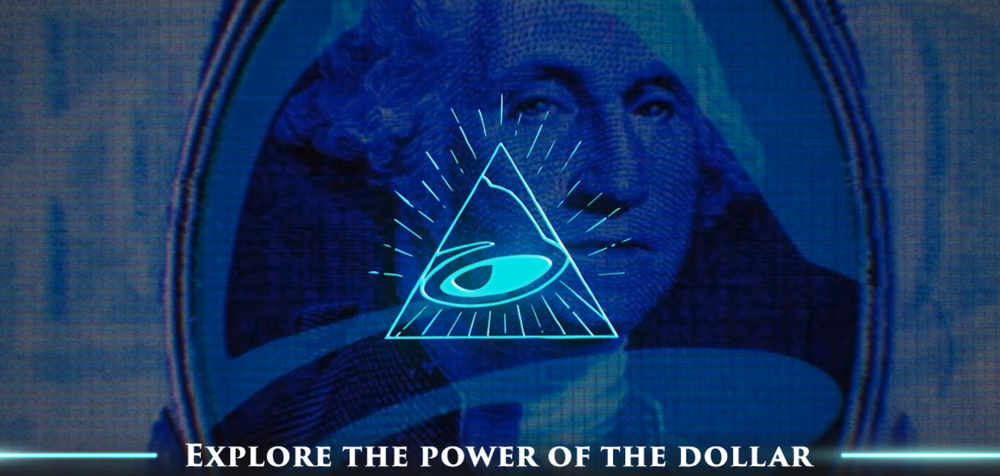
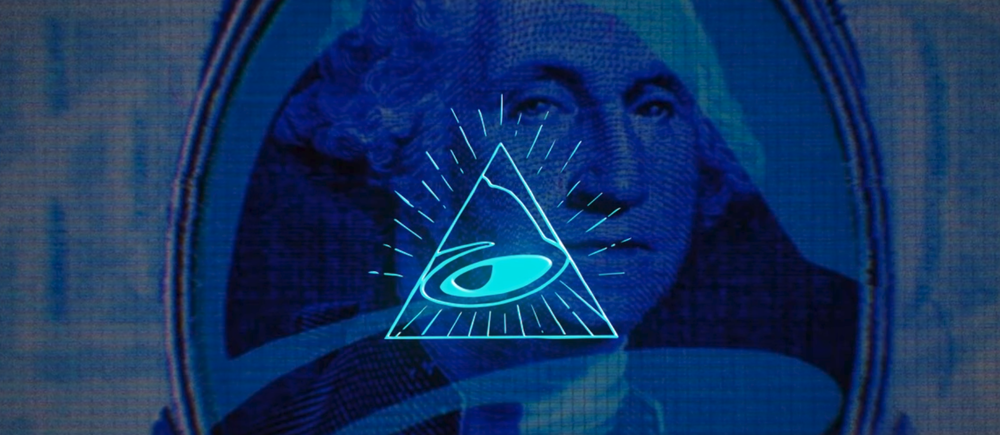
Remove text from background pic

diff --git a/index.css b/index.css
@@ -15,7 +15,7 @@
     margin: 0;
     text-align: center;
     background-image: url(images/belluminati.png);
-    background-position: 49% -35%; 
+    background-position: 49% -25%; 
   }
 
   #container {
